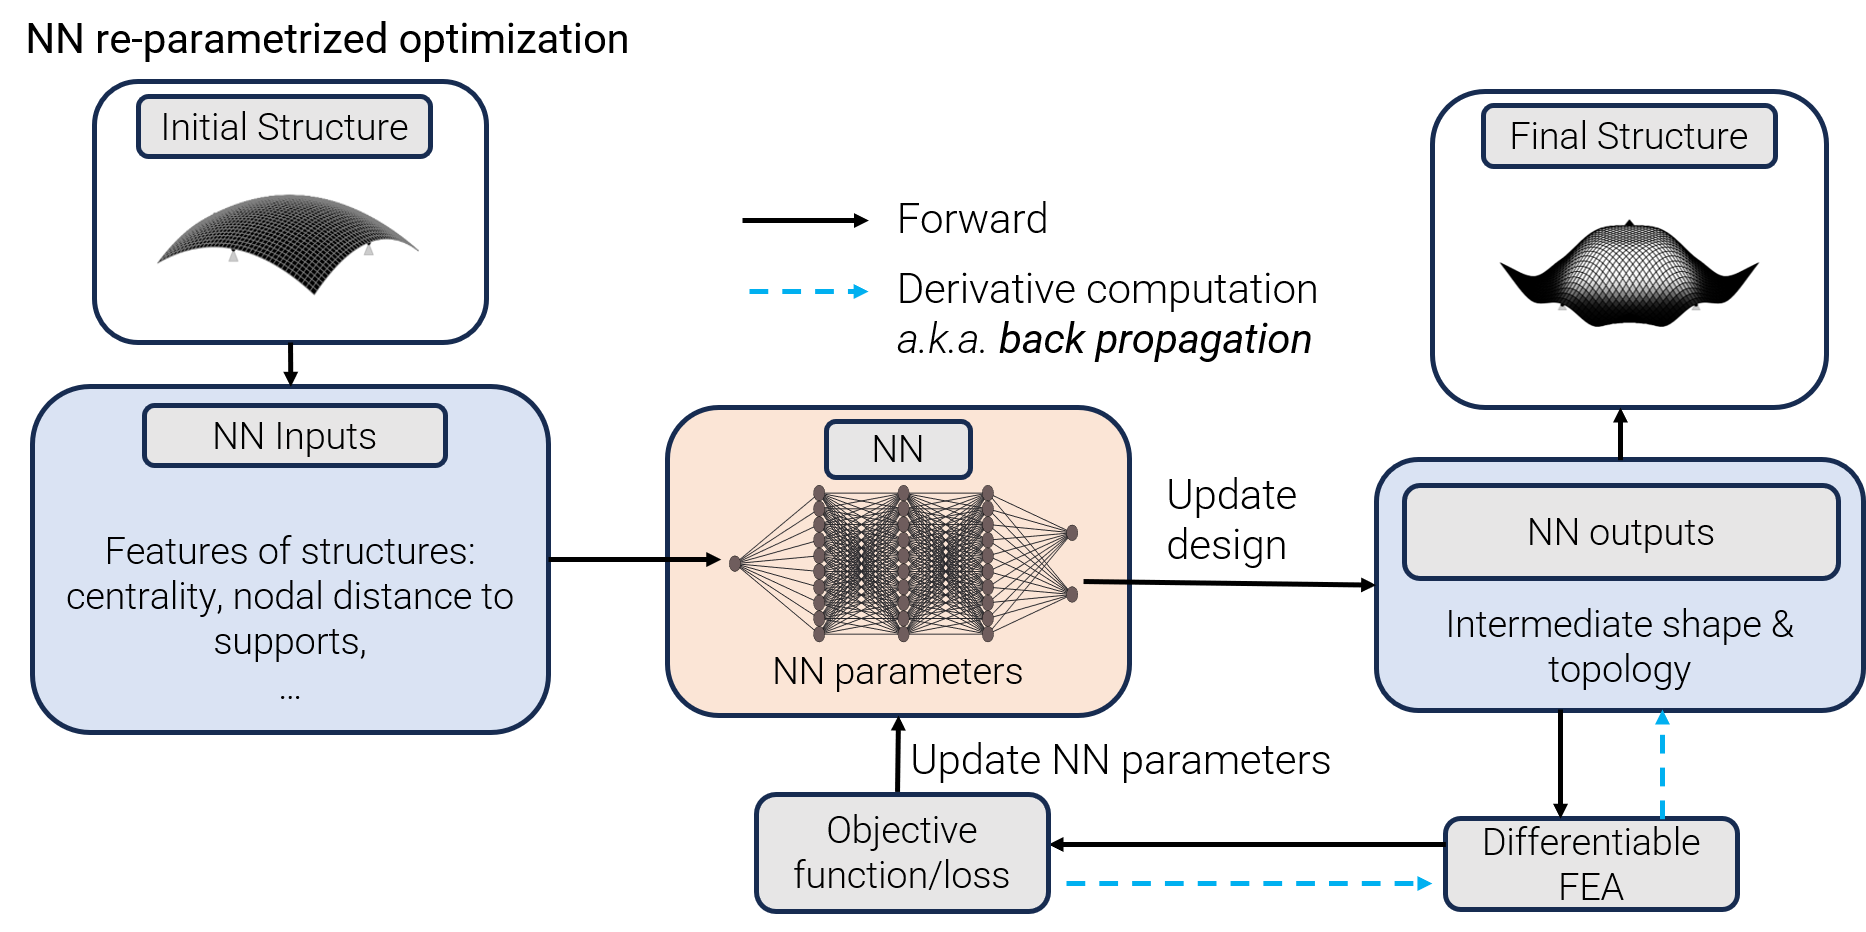
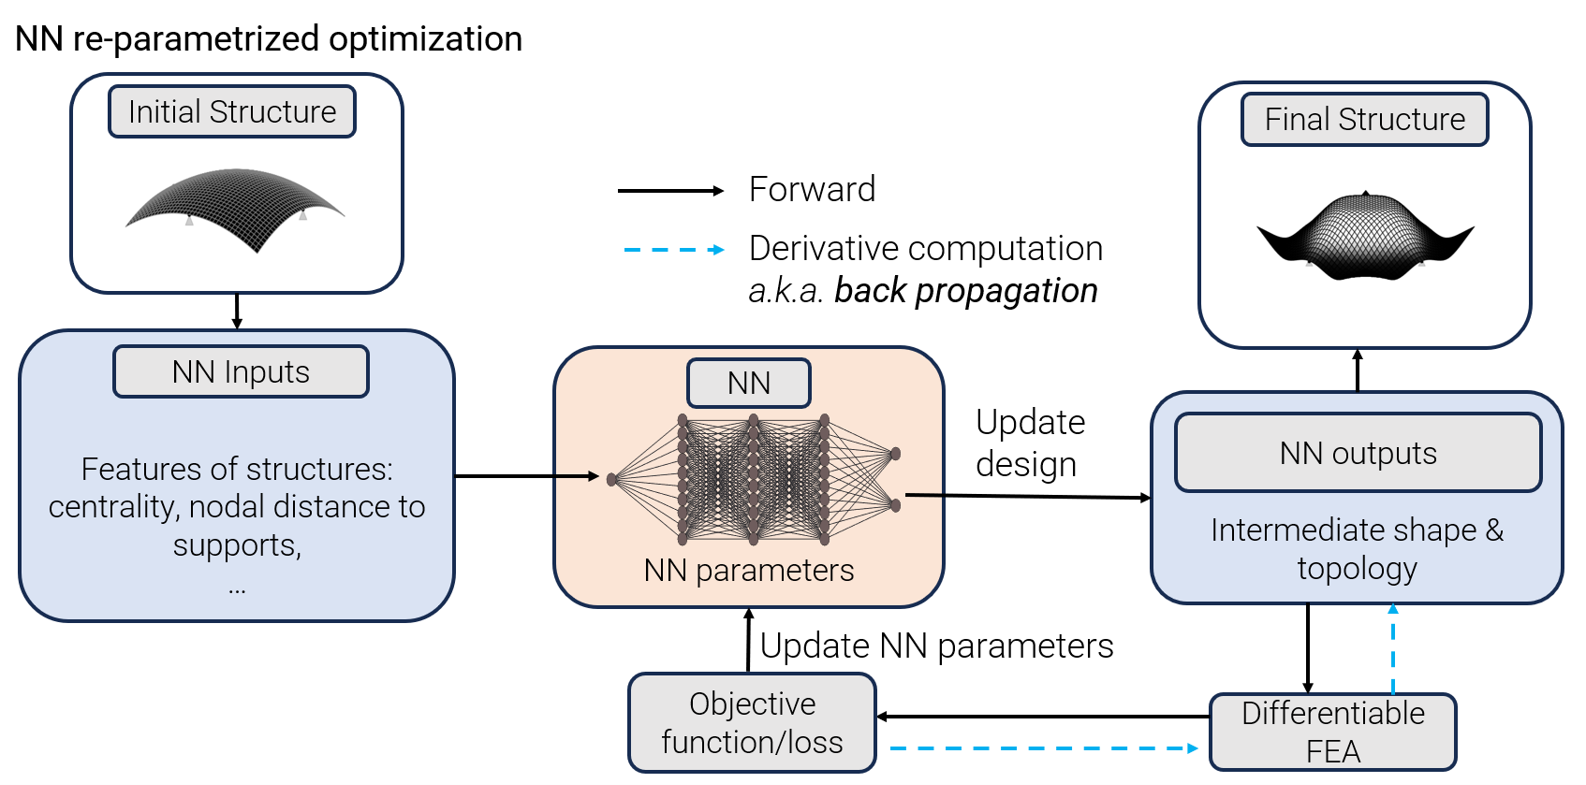
Update Readme.md
Update package structure

diff --git a/README.md b/README.md
@@ -12,6 +12,22 @@ Developed by [Gaoyuan Wu](https://gaoyuanwu.github.io/) @ Princeton.
 * Shape optimization, size optimization and topology optimization
 * Seamless integration with machine learning (ML) libraries
 
+## Overview
+An overview of the package structure of JaxSSO is shown in the following figure.
+
+
+The  `element.py` module is related to underlying mechanics and formulations of different structural elements, such as beam-columns and MITC4 shells.
+
+The `model.py` module creates a finite element model to be analyzed. Users use this module to add structural elements, specify boundary conditions, and impose loads. 
+
+The `assemblemodel.py` module assembles the linear system equations $\bm{K}\bm{u}=\bm{f}$ to be solved, where $\bm{K}$ is the global stiffness matrix, $\bm{u}$ is the solution, and $\bm{f}$ is the external load.
+
+The `solver.py` module conducts forward analysis and solves for the solution $\bm{u}$ with various solvers: dense, sparse, on CPUs or GPUs.
+
+The `SSO_model.py` module is for backward propogation/optimization. Users can specify various parameters and objective function. Derivatives are then obtained in an automated manner thanks to AD.
+
+![alt text](data/images/Structure_JAX_SSO.png)
+
 ## Usage
 
 ### Installation
